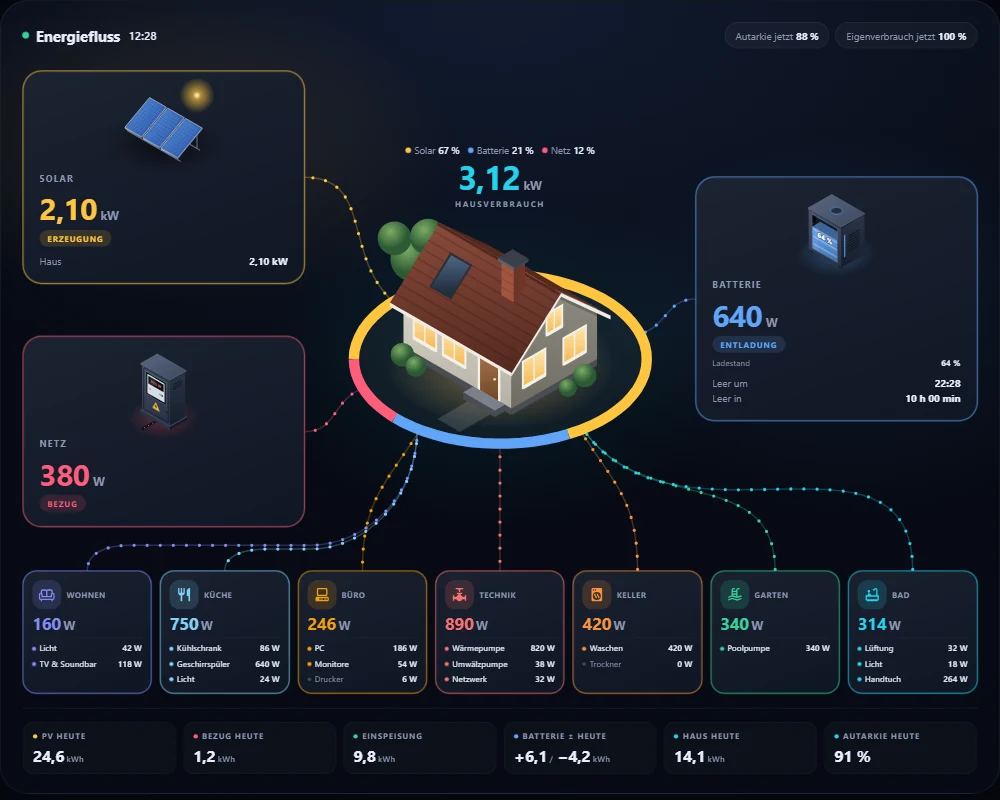
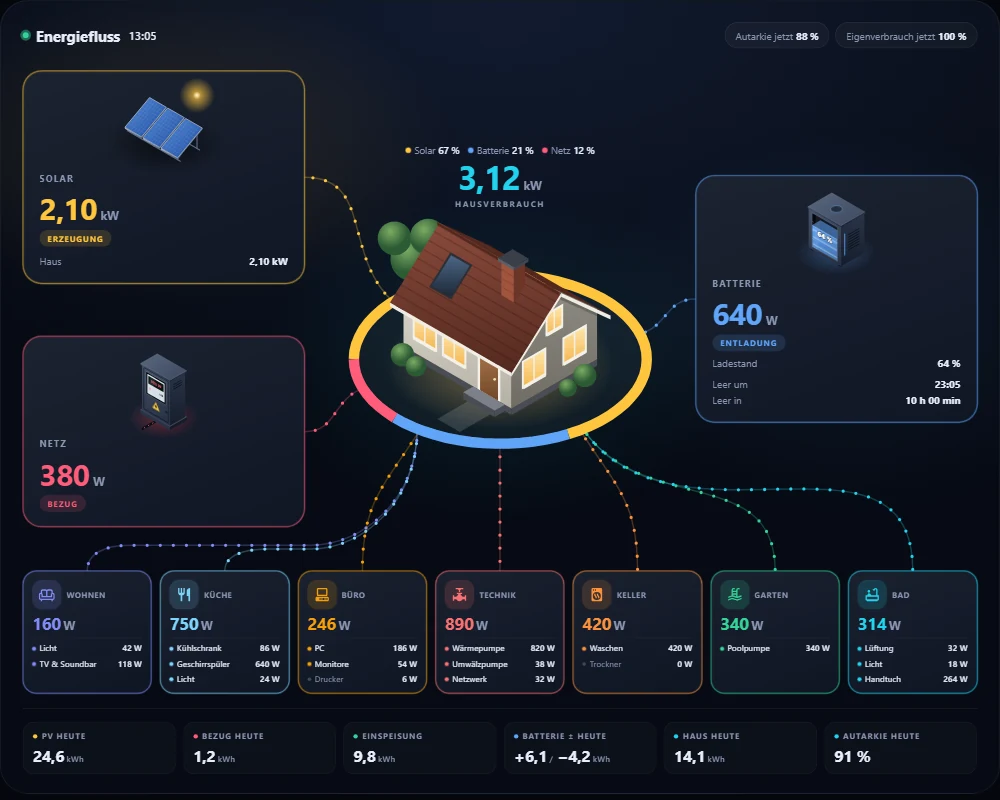
0.32.1: Batterie-Kachel einheitlich (Ladestand und Zeilen darunter gleiche Groesse und Wert-Stil) (#46)

Changed region(s): [[0.713, 0.3438, 0.961, 0.5312], [0.713, 0.2188, 0.961, 0.3125], [0.124, 0.0312, 0.155, 0.0625]]

diff --git a/dist/energy-cockpit.js b/dist/energy-cockpit.js
@@ -1,4 +1,4 @@
-/*! energy-cockpit v0.32.0 - MIT License */
+/*! energy-cockpit v0.32.1 - MIT License */
 /* ---- common.js ---- */
 /* Gemeinsame Helfer für alle energy-cockpit-Karten. Wird im Bundle als globales Objekt WD bereitgestellt. */
 const WD = (() => {
@@ -1059,8 +1059,8 @@ svg.links{position:absolute;top:0;left:0;width:100%;height:100%;overflow:visible
 .soc-low,.soc-high{position:absolute;top:0;bottom:0;background:repeating-linear-gradient(-45deg,rgba(var(--ov),.22) 0 3px,rgba(var(--ov),.06) 3px 6px);pointer-events:none}
 .soc-low{left:0;border-right:1px solid rgba(var(--ov),.5)}
 .soc-high{right:0;border-left:1px solid rgba(var(--ov),.5)}
-.soc-row{display:flex;justify-content:space-between;margin-top:7px;font-size:calc(.72rem*var(--ts,1));color:rgb(var(--mut))}
-.soc-row b{color:var(--txt);font-variant-numeric:tabular-nums}
+.soc-row{display:flex;justify-content:space-between;margin-top:7px;font-size:calc(.74rem*var(--ts,1));color:rgb(var(--mut))}
+.soc-row b{color:var(--txt);font-weight:650;font-variant-numeric:tabular-nums}
 .hub-wrap{grid-area:hub;display:flex;flex-direction:column;align-items:center}
 .hub{position:relative;width:100%;max-width:250px;cursor:pointer;transition:transform .25s}
 .hub:before{content:'';display:block;padding-top:100%}
@@ -1137,6 +1137,7 @@ footer{display:grid;grid-template-columns:repeat(auto-fit,minmax(118px,1fr));gri
 .wide .num{font-size:calc(2.6rem*var(--vs,1))}
 .wide .unit{font-size:calc(1rem*var(--vs,1))}
 .wide .sub{font-size:calc(.86rem*var(--ts,1))}
+.wide .soc-row{font-size:calc(.86rem*var(--ts,1))}
 .wide .tag{font-size:calc(.72rem*var(--ts,1));padding:4px 11px}
 .wide .hub{max-width:300px}
 .wide .core .num{font-size:calc(2.8rem*var(--vs,1))}
@@ -1236,7 +1237,7 @@ footer{display:grid;grid-template-columns:repeat(auto-fit,minmax(118px,1fr));gri
 /* text_size: gross | sehr_gross vergrößert die kleinen Texte (Tablet, Handy). Eine Zahl (z. B. 2) vergrößert zusätzlich die Zahlen in den Kacheln */
 .ts-l{--ts:1.25}
 .ts-xl{--ts:1.5}
-.ts-l .soc-row b,.ts-xl .soc-row b{font-size:1.05rem}
+.ts-l .soc-row b,.ts-xl .soc-row b,.ts-l .sub .sr b,.ts-xl .sub .sr b{font-size:1.05rem}
 /* Smartphone */
 .narrow{padding:16px}
 .narrow header{margin-bottom:14px}

diff --git a/src/flow-card.js b/src/flow-card.js
@@ -116,8 +116,8 @@ svg.links{position:absolute;top:0;left:0;width:100%;height:100%;overflow:visible
 .soc-low,.soc-high{position:absolute;top:0;bottom:0;background:repeating-linear-gradient(-45deg,rgba(var(--ov),.22) 0 3px,rgba(var(--ov),.06) 3px 6px);pointer-events:none}
 .soc-low{left:0;border-right:1px solid rgba(var(--ov),.5)}
 .soc-high{right:0;border-left:1px solid rgba(var(--ov),.5)}
-.soc-row{display:flex;justify-content:space-between;margin-top:7px;font-size:calc(.72rem*var(--ts,1));color:rgb(var(--mut))}
-.soc-row b{color:var(--txt);font-variant-numeric:tabular-nums}
+.soc-row{display:flex;justify-content:space-between;margin-top:7px;font-size:calc(.74rem*var(--ts,1));color:rgb(var(--mut))}
+.soc-row b{color:var(--txt);font-weight:650;font-variant-numeric:tabular-nums}
 .hub-wrap{grid-area:hub;display:flex;flex-direction:column;align-items:center}
 .hub{position:relative;width:100%;max-width:250px;cursor:pointer;transition:transform .25s}
 .hub:before{content:'';display:block;padding-top:100%}
@@ -194,6 +194,7 @@ footer{display:grid;grid-template-columns:repeat(auto-fit,minmax(118px,1fr));gri
 .wide .num{font-size:calc(2.6rem*var(--vs,1))}
 .wide .unit{font-size:calc(1rem*var(--vs,1))}
 .wide .sub{font-size:calc(.86rem*var(--ts,1))}
+.wide .soc-row{font-size:calc(.86rem*var(--ts,1))}
 .wide .tag{font-size:calc(.72rem*var(--ts,1));padding:4px 11px}
 .wide .hub{max-width:300px}
 .wide .core .num{font-size:calc(2.8rem*var(--vs,1))}
@@ -293,7 +294,7 @@ footer{display:grid;grid-template-columns:repeat(auto-fit,minmax(118px,1fr));gri
 /* text_size: gross | sehr_gross vergrößert die kleinen Texte (Tablet, Handy). Eine Zahl (z. B. 2) vergrößert zusätzlich die Zahlen in den Kacheln */
 .ts-l{--ts:1.25}
 .ts-xl{--ts:1.5}
-.ts-l .soc-row b,.ts-xl .soc-row b{font-size:1.05rem}
+.ts-l .soc-row b,.ts-xl .soc-row b,.ts-l .sub .sr b,.ts-xl .sub .sr b{font-size:1.05rem}
 /* Smartphone */
 .narrow{padding:16px}
 .narrow header{margin-bottom:14px}

diff --git a/test/flow-big.html b/test/flow-big.html
@@ -82,6 +82,15 @@ async function run(){
   ok('Tag heißt "Erzeugung"',/Erzeugung/.test(t(e,'[data-k="pv"] .tag')),t(e,'[data-k="pv"] .tag'));
   ok('Zeilen stehen untereinander (Name links, Wert rechts)',qa(e,'[data-k="pv"] .sub .sr').length>=1&&getComputedStyle(q(e,'[data-k="pv"] .sub .sr')).display==='flex',qa(e,'[data-k="pv"] .sub .sr').length);
   ok('Mix-Zeile sagt Batterie statt Akku',!/Akku/.test(t(e,'.mix'))&&/Batterie/.test(t(e,'.mix')),t(e,'.mix'));
+  // #46 (Joe): Ladestand-Zeile und Zeilen "Voll um / Voll in" der Batterie-Kachel haben dieselbe Größe und Schriftstärke
+  const cmpRows=async(c,label)=>{e=mount(c);await wait(700);const a=q(e,'[data-k="bat"] .soc-row'),b=q(e,'[data-k="bat"] .sub .sr');
+    const fa=getComputedStyle(a).fontSize,fb=getComputedStyle(b).fontSize,wa=getComputedStyle(a.querySelector('b')).fontWeight,wb=getComputedStyle(b.querySelector('b')).fontWeight;
+    ok('Batterie-Kachel '+label+': Ladestand und Zeile darunter gleich groß',!!a&&!!b&&fa===fb,fa+' gegen '+fb);
+    ok('Batterie-Kachel '+label+': Werte gleich stark',wa===wb,wa+' gegen '+wb);};
+  const bcfg=(o)=>cfg(Object.assign({consumers:[],battery:{power:'sensor.bat',soc:'sensor.soc',capacity_kwh:10}},o||{}));
+  await cmpRows(bcfg(),'normal');
+  document.getElementById('host').style.maxWidth='1100px';await cmpRows(bcfg({text_size:'sehr_gross'}),'sehr groß');
+  await cmpRows(bcfg({label_size:1.6}),'label_size');
   // Kurzansicht: große Kachel bleibt einspaltig
   e=mount(cfg({compact:'immer'}));await wait(500);
   ok('Kurzansicht: große Kachel einspaltig',getComputedStyle(q(e,'[data-k="c0"]')).gridColumnStart==='auto',getComputedStyle(q(e,'[data-k="c0"]')).gridColumnStart);

diff --git a/CHANGELOG.md b/CHANGELOG.md
@@ -1,5 +1,8 @@
 # Änderungsprotokoll
 
+## 0.32.1
+- **Energiefluss, Batterie-Kachel einheitlich:** Die Zeile „Ladestand“ und die Zeilen darunter („Voll um“, „Voll in“, „Leer um“, „Leer in“, „Nutzbar“) haben jetzt dieselbe Schriftgröße und denselben Wert-Stil, auch in der breiten Ansicht und mit größerer Textgröße. Vorher war „Ladestand“ in der breiten Ansicht kleiner als die Zeilen darunter. Anlass: [#46](https://github.com/msucimaker3112/energy-cockpit/issues/46).
+
 ## 0.32.0
 - **Energiefluss, „Warum?“ erklärt Netzbezug und Einspeisung (optional, `why: true`):** An der Netz-Kachel erscheint ein „?“. Ein Tipp öffnet ein Fenster, das in einfachem Deutsch erklärt, woher der Wert kommt: Bei Netzbezug zeigen Balken, welche Verbraucher und Gruppen den Strom brauchen (bei Gruppen mit dem größten Eintrag, zum Beispiel „davon Server 1,80 kW“), dazu der nicht erfasste Rest. Darunter stehen die Antworten auf „Warum nicht aus der Batterie?“ (leer, oder gibt keinen Strom ab, Betriebsart prüfen) und „Warum nicht Solar?“ (Nacht mit Sonnenaufgang und Prognose für morgen, Wetter, oder Solar reicht nicht). Bei Einspeisung rechnet das Fenster vor (Solar minus Haus gleich Einspeisung), erklärt „Warum nicht in die Batterie?“ (voll, oder lädt gerade nicht) und nennt aus den Überschuss-Vorschlägen (`surplus`), was jetzt passt. Alles regelbasiert aus den Werten der Karte, ohne KI und ohne zusätzliche Abfragen. Das Fenster läuft live mit. Je mehr Verbraucher in der Karte stehen, desto genauer wird die Erklärung. Im Editor und im Assistenten (Schritt „Aussehen“) einschaltbar. Ohne Eintrag ändert sich nichts.
 - **Energiefluss, Batterie-Kachel passend zur Solar-Kachel:** Der Zustand heißt jetzt „Ladung“ und „Entladung“ (statt „Lädt“ und „Entlädt“), passend zu „Erzeugung“, „Bezug“ und „Einspeisung“. Die Zeilen zur Prognose stehen untereinander, Name links und Wert rechts: „Voll um“ und „Voll in“ beim Laden, „Leer um“ und „Leer in“ beim Entladen (vorher „Reicht bis“ und „noch“), dazu „Nutzbar“ mit der Energie. Anlass: [#46](https://github.com/msucimaker3112/energy-cockpit/issues/46).
